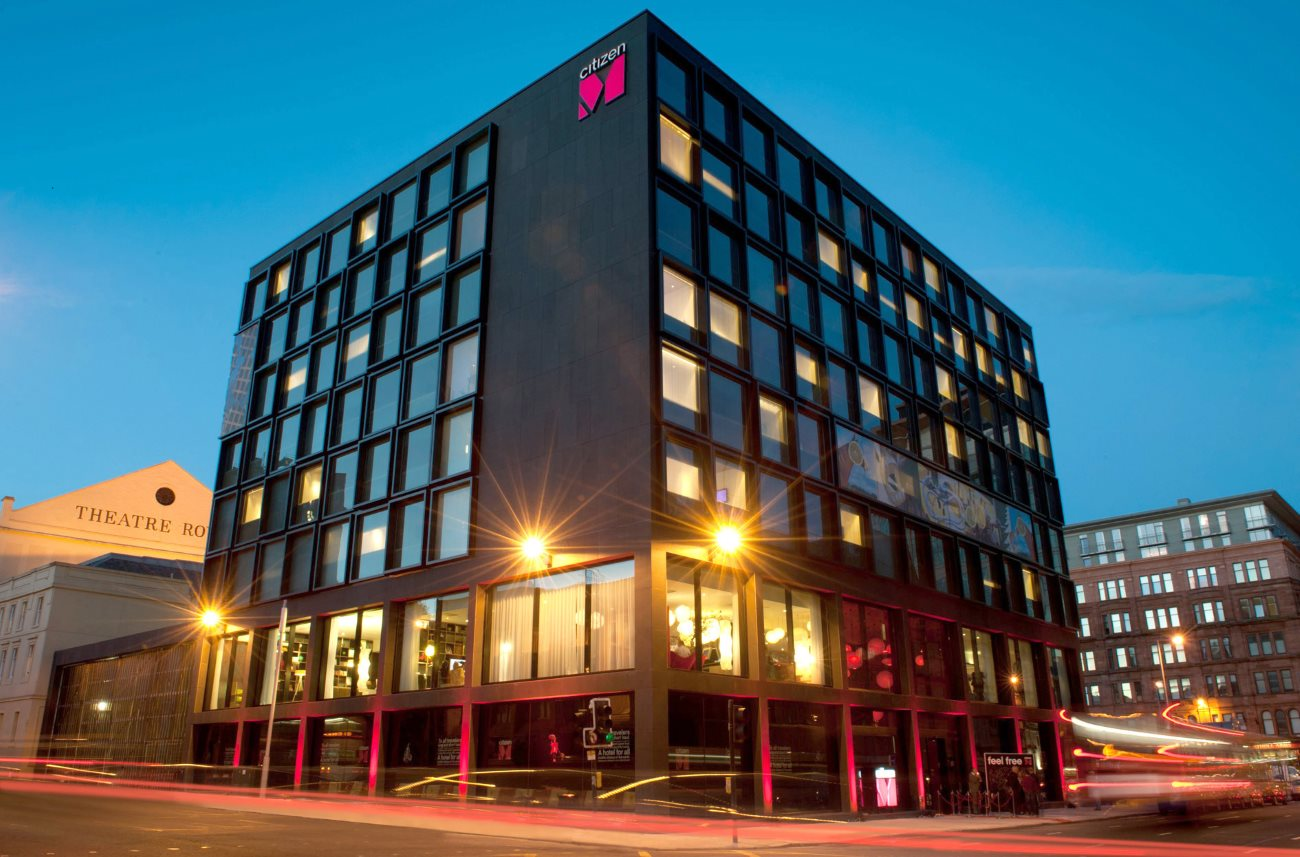
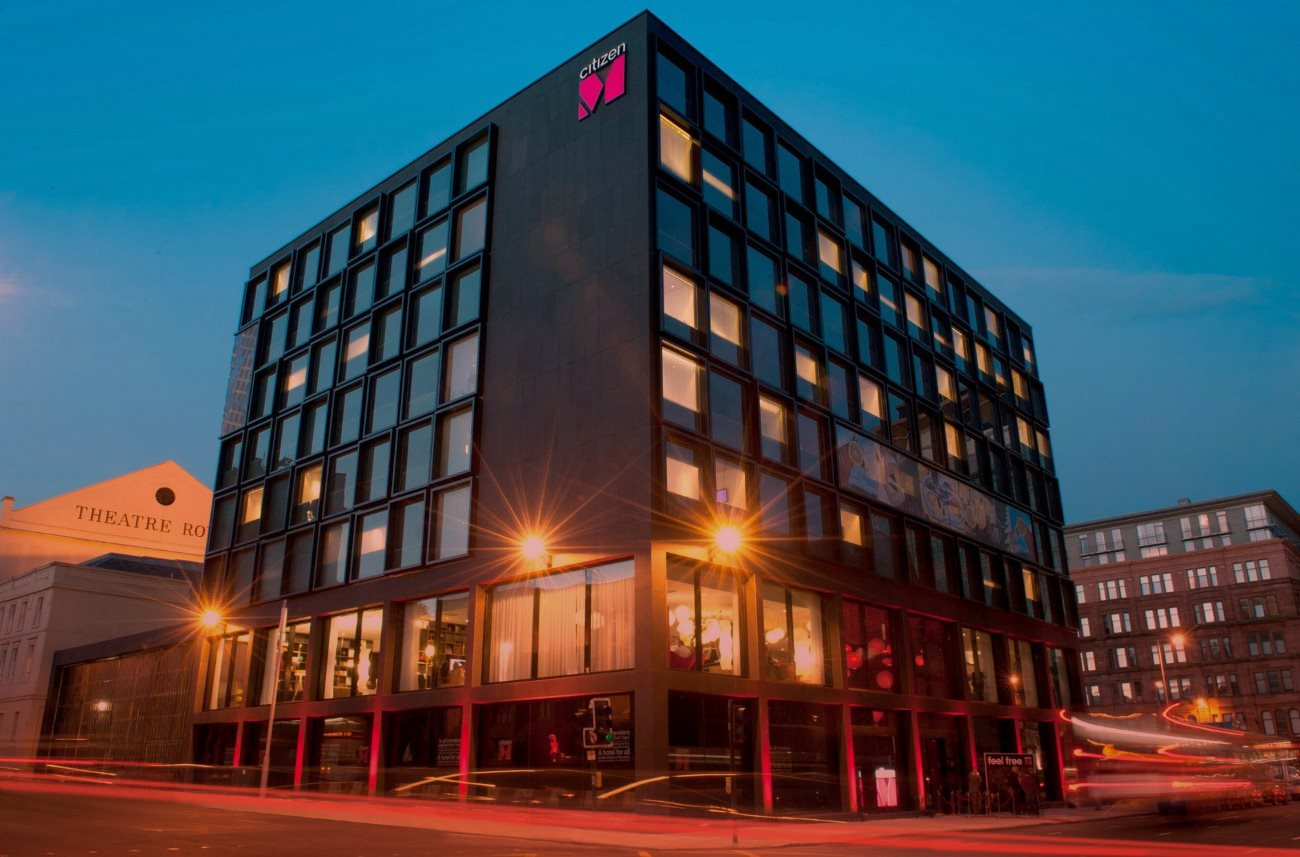
Added red transparent layer to main image to help text stand out Removed About section from menu and replaced with Home Made main image shorter on mobile Made gap between sections larger on mobile Fixed testimonials text padding on mobile

diff --git a/indexnew.html b/indexnew.html
@@ -22,7 +22,6 @@
     </style>
 </head>
 <body>
-    <div id="home"></div>
     <header id="header" class="header" data-stellar-ratio="0.5">
         <!--== Caption ==-->
         <div class="header-caption" data-stellar-ratio="2">
@@ -63,7 +62,6 @@
                     <div class="collapse navbar-collapse" id="menu">
                         <ul class="nav navbar-nav">
                             <li class="active"><a href="#home">Home</a></li>
-                            <li><a href="#about">About</a></li>
                             <!--<li><a href="#sessions">Sessions</a></li>-->
                             <!--<li><a href="#schedule">Schedule</a></li>-->
                             <li><a href="#tickets">Tickets</a></li>
@@ -80,20 +78,13 @@
         </div>
     </div>
     <div class="container content">
-        <!--===============================-->
-        <!--== About ======================-->
-        <!--===============================-->
-        <section id="about">
+        <!--==============================-->
+        <!--== Home ======================-->
+        <!--==============================-->
+        <section id="home">
             <div class="row">
-                <div class="col-sm-12 col-md-2">
-                    <div class="section-header text-left">
-                        <h2>
-                            <b>About</b>
-                        </h2>
-                    </div>
-                </div>
                 <div class="col-sm-12 col-md-10">
-                    <h4>CodeCraftConf is the software craftsmanship conference that puts 'confer' back into 'conference'.</h4>
+                    <h2><b>CodeCraftConf</b> is the software craftsmanship conference that puts <b>confer</b> back into <b>conference</b>.</h3>
                     <p>No presentations: just <a href="http://code.joejag.com/2015/guided-conversations.html">guided conversations</a> and workshops on the hottest topics in software development amongst your peers.</p>
                     <p>Traditionally conferences feature a set of talks given by speakers, where you consume their thoughts and perhaps get a chance to ask a question at the end.</p>
                     <p>This conference will be different.</p>

diff --git a/css/style.css b/css/style.css
@@ -618,6 +618,13 @@ Content
 	background: #fff;
 }
 
+@media (max-width: 767px) {
+    .content section,
+	.content footer {
+        margin: 4rem 0 0 0;
+    }
+}
+
 .section-header {
 	margin: 0 0 4rem 0;
 }
@@ -1355,6 +1362,13 @@ Testimonials
 	font-size: 2rem;
 	font-style: italic;
 	margin: 0;
+}
+
+@media (max-width: 767px) {
+    .testimonial-content p {
+        padding: 12px;
+        padding-top: 8px;
+    }
 }
 
 .testimonial-author img {

diff --git a/css/responsive.css b/css/responsive.css
@@ -21,7 +21,7 @@
 @media (max-width: 767px) {
 
 	html { font-size: 50.5% }
-	.header-background { height: 500px; }
+	.header-background { height: 400px; }
 
 	.content section,
 	.content footer { padding: 1rem 2.5rem; }
